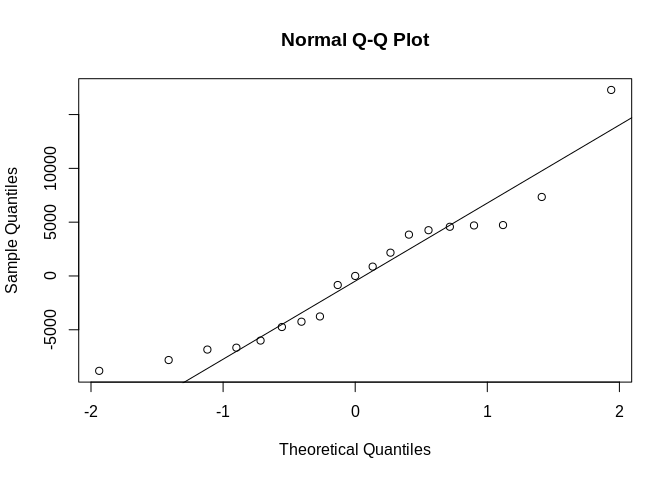
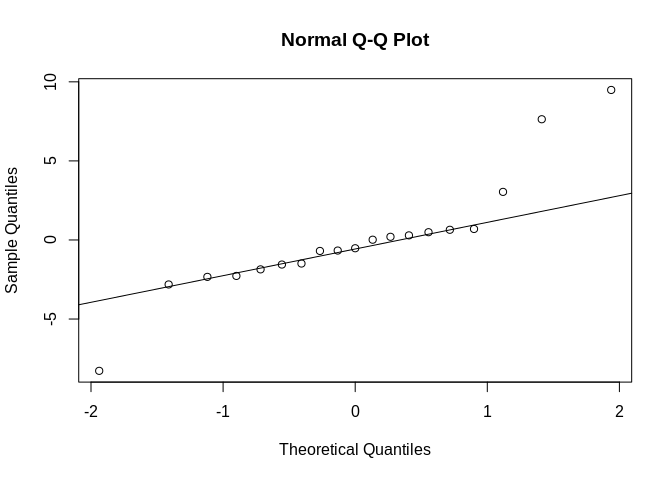
phenotype script update

diff --git a/markdown_files/Phenotype_Analysis/AE17_epfPhenotype.md b/markdown_files/Phenotype_Analysis/AE17_epfPhenotype.md
@@ -41,8 +41,9 @@ wc <-  read.csv(file="~/Github/2017OAExp_Oysters/input_files/WC/AE17_pHSalinity_
 ```
 
 ### Analyzing EPF Data (values with Complete Carbonate Chemistry)  
+This is data that we measured both the EPF pH and DIC of extract EPF Fluid in order to calculate the complete carbonate chemistry  
 
-**Days : Day 0 (pre exposure), Day 9, Day 80**
+**Days : Day 0 (pre exposure), Day 9, Day 80**  
 
 ```r
 # Select specific columns and only keep rows with complete carbonate chemistry
@@ -56,34 +57,50 @@ epf_s %>% filter(timepoint > 0) %>% group_by(pCO2_fac) %>%
   summarize(DIC=mean(DIC),TA=mean(TA),pH = mean(pH_meas),act_pCO2 = mean(pCO2_calc),Calcite = mean(Calcite)) -> sum_WC
   
 # Exploratory Plots
+
+#Color Scheme
+# Default orderL 400,900,2800
+trt_color <- c("deepskyblue3", "darkorange", "firebrick")
 #pH
+give.n <- function(x){
+   return(c(y = 7.9, label = length(x)))
+}
 ggplot(epf_s,aes(x=timepoint_fac,y=EPF_pH,group=interaction(pCO2_fac,timepoint_fac),colour=pCO2_fac)) + 
-  geom_hline(yintercept= sum_WC$pH,col=c("red","green","blue")) + 
+  geom_hline(yintercept= sum_WC$pH,col=trt_color,size=1) + 
   geom_boxplot() + 
-  labs(title="EPF pH",x="Time",y="EPF pH")
+  scale_color_manual(values=trt_color) + 
+  theme_bw() +
+  stat_summary(fun.data = give.n,
+               geom = "text",
+               position = position_dodge(width = 0.9), vjust = -0.25) +
+  labs(title="EPF pH",x="Time",y="EPF pH",colour="pCO2")
 ```
 
-![](AE17_epfPhenotype_files/figure-html/unnamed-chunk-1-1.png)<!-- -->
+![](AE17_epfPhenotype_files/figure-html/unnamed-chunk-2-1.png)<!-- -->
 
 ```r
 # Calcite
 ggplot(epf_s,aes(x=timepoint_fac,y=EPF_Ca_Start,group=interaction(pCO2_fac,timepoint_fac),colour=pCO2_fac)) + 
-  geom_hline(yintercept= sum_WC$Calcite,col=c("red","green","blue")) + 
+  geom_hline(yintercept= sum_WC$Calcite,col=trt_color,size=1) + 
   geom_boxplot() + 
-  labs(title="EPF Calcite",x="Time",y="EPF Ca")
+  scale_color_manual(values=trt_color) + 
+  theme_bw() +
+  labs(title="EPF Calcite",x="Time",y="EPF Ca",colour="pCO2")
 ```
 
-![](AE17_epfPhenotype_files/figure-html/unnamed-chunk-1-2.png)<!-- -->
+![](AE17_epfPhenotype_files/figure-html/unnamed-chunk-2-2.png)<!-- -->
 
 ```r
 # DIC
 ggplot(epf_s,aes(x=timepoint_fac,y=EPF_DIC_Start,group=interaction(pCO2_fac,timepoint_fac),colour=pCO2_fac)) + 
-  geom_hline(yintercept= sum_WC$DIC,col=c("red","green","blue")) + 
+  geom_hline(yintercept= sum_WC$DIC,col=trt_color,size=1) + 
   geom_boxplot() + 
-  labs(title="EPF DIC",x="Time",y="EPF DIC")
+  scale_color_manual(values=trt_color) + 
+  theme_bw() +
+  labs(title="EPF DIC",x="Time",y="EPF DIC",colour="pCO2")
 ```
 
-![](AE17_epfPhenotype_files/figure-html/unnamed-chunk-1-3.png)<!-- -->
+![](AE17_epfPhenotype_files/figure-html/unnamed-chunk-2-3.png)<!-- -->
 **Figure Notes**: Horizontal lines represent the mean environment value for each the the treatment levels.
   
 **Subsetting data for stats**
@@ -111,7 +128,7 @@ qqnorm(mod_1$residuals)
 qqline(mod_1$residuals)
 ```
 
-![](AE17_epfPhenotype_files/figure-html/unnamed-chunk-3-1.png)<!-- -->
+![](AE17_epfPhenotype_files/figure-html/unnamed-chunk-4-1.png)<!-- -->
 
 ```r
 # resids a little wonky trying a transformation
@@ -120,7 +137,7 @@ qqnorm(mod_2$residuals)
 qqline(mod_2$residuals)
 ```
 
-![](AE17_epfPhenotype_files/figure-html/unnamed-chunk-3-2.png)<!-- -->
+![](AE17_epfPhenotype_files/figure-html/unnamed-chunk-4-2.png)<!-- -->
 
 ```r
 #Slight improvement
@@ -182,7 +199,7 @@ qqnorm(mod_1$residuals)
 qqline(mod_1$residuals)
 ```
 
-![](AE17_epfPhenotype_files/figure-html/unnamed-chunk-4-1.png)<!-- -->
+![](AE17_epfPhenotype_files/figure-html/unnamed-chunk-5-1.png)<!-- -->
 
 ```r
 leveneTest(log(epf_s_Exp$EPF_DIC_Start)~epf_s_Exp$pCO2_fac*epf_s_Exp$timepoint_fac)
@@ -240,7 +257,7 @@ qqnorm(mod_1$residuals)
 qqline(mod_1$residuals)
 ```
 
-![](AE17_epfPhenotype_files/figure-html/unnamed-chunk-5-1.png)<!-- -->
+![](AE17_epfPhenotype_files/figure-html/unnamed-chunk-6-1.png)<!-- -->
 
 ```r
 leveneTest(log(epf_s_Exp$EPF_pH)~epf_s_Exp$pCO2_fac*epf_s_Exp$timepoint_fac)
@@ -291,42 +308,33 @@ summary(aov_1)
 # :( close but not significant (might be limited power here)
 ```
 
-### Analyzing EPF pH total data (all exposure time points and 900 treatment)
-
-**Filtering out NAs (one entry) and including only timepoints from the exposure (not acclimation)**
-
-```r
-epf_exp <- epf_cal[!is.na(epf_cal$EPF_pH),]
-epf_exp <- epf_exp[as.numeric(epf_exp$timepoint) > 0,]
-#epf_exp <- epf_exp[!epf_exp$pCO2_fac == 900,]
-
-# Exploratory plot
-ggplot(epf_exp,aes(y=EPF_pH,x=timepoint_fac,colour=pCO2_fac)) + geom_boxplot()
-```
-
-![](AE17_epfPhenotype_files/figure-html/unnamed-chunk-6-1.png)<!-- -->
-
-#### **Statistcal Analysis**
-
-**Overview**  
-Test: 2-way ANOVA - 
-* Explainatory Factors: Treatment (pCO2_fac) and Time (timepoint_fac)
-* Tested for normality and variance assumptions - log transoformed EPF data
-
-**pH**
-
-```r
-mod_1 <- lm(EPF_pH~timepoint_fac*pCO2_fac,data=epf_exp)
-
-qqnorm(mod_1$residuals)
-qqline(mod_1$residuals)
-```
-
+### Analyzing EPF pH total data (all exposure time points and 900 treatment)  
+  
+* Filtering out NAs (one entry) and including only timepoints from the exposure (not acclimation)
 ![](AE17_epfPhenotype_files/figure-html/unnamed-chunk-7-1.png)<!-- -->
+  
+### **Statistcal Analysis**  
+  
+#### **EPF pH total data - time as factor**  
+**Overview**  
+Test: 2-way ANOVA - Fixed Factors Only   
+* Explainatory Factors: Treatment (pCO2_fac) and Time (timepoint_fac)  
+* Random Facotrs: No Random Factors  
+* Tested for normality and variance assumptions  
+
 
 ```r
-aov_1 <- aov(mod_1)
-summary(aov_1)
+mod_base <- lm(EPF_pH~timepoint_fac*pCO2_fac,data=epf_exp)
+
+qqnorm(mod_base$residuals)
+qqline(mod_base$residuals)
+```
+
+![](AE17_epfPhenotype_files/figure-html/unnamed-chunk-8-1.png)<!-- -->
+
+```r
+aov_base <- aov(mod_base)
+summary(aov_base)
 ```
 
 ```
@@ -340,31 +348,32 @@ summary(aov_1)
 ```
 
 ```r
-tukey_1 <- TukeyHSD(aov_1)
-plot(tukey_1)
+tukey_base <- TukeyHSD(aov_base)
+plot(tukey_base)
 ```
 
-![](AE17_epfPhenotype_files/figure-html/unnamed-chunk-7-2.png)<!-- -->![](AE17_epfPhenotype_files/figure-html/unnamed-chunk-7-3.png)<!-- -->![](AE17_epfPhenotype_files/figure-html/unnamed-chunk-7-4.png)<!-- -->
+![](AE17_epfPhenotype_files/figure-html/unnamed-chunk-8-2.png)<!-- -->![](AE17_epfPhenotype_files/figure-html/unnamed-chunk-8-3.png)<!-- -->![](AE17_epfPhenotype_files/figure-html/unnamed-chunk-8-4.png)<!-- -->
   
+#### **EPF pH total data - treatment as factor and time as continuous variable**  
 **Overview**  
-Test: 2-way ANCOVA - 
-* Explainatory Factors: Treatment (pCO2_fac) 
-* Continuous covariate: Time (timepoint)
+Test: 2-way ANCOVA 
+* Explainatory Factors: Treatment (pCO2_fac)   
+* Continuous covariate: Time (timepoint)  
+* Random Facotrs: No Random Factors  
 * Tested for normality and variance assumptions  
-
-### EPF pH total data - treatment as factor and time as continuous variable
+  
 
 ```r
-mod_1 <- lm(EPF_pH~timepoint*pCO2_fac,data=epf_exp)
+mod_baseA <- lm(EPF_pH~timepoint*pCO2_fac,data=epf_exp)
 
-qqnorm(mod_1$residuals)
-qqline(mod_1$residuals)
+qqnorm(mod_baseA$residuals)
+qqline(mod_baseA$residuals)
 ```
 
-![](AE17_epfPhenotype_files/figure-html/unnamed-chunk-8-1.png)<!-- -->
+![](AE17_epfPhenotype_files/figure-html/unnamed-chunk-9-1.png)<!-- -->
 
 ```r
-summary(mod_1)
+summary(mod_baseA)
 ```
 
 ```
@@ -393,8 +402,8 @@ summary(mod_1)
 ```
 
 ```r
-aov_1 <- aov(mod_1)
-summary(aov_1)
+aov_baseA <- aov(mod_baseA)
+summary(aov_baseA)
 ```
 
 ```
@@ -408,7 +417,7 @@ summary(aov_1)
 ```
 
 ```r
-tukey_1 <- TukeyHSD(aov_1,which="pCO2_fac")
+tukey_baseA <- TukeyHSD(aov_baseA,which="pCO2_fac")
 ```
 
 ```
@@ -422,11 +431,101 @@ tukey_1 <- TukeyHSD(aov_1,which="pCO2_fac")
 ```
 
 ```r
-plot(tukey_1)
+plot(tukey_baseA)
 ```
 
-![](AE17_epfPhenotype_files/figure-html/unnamed-chunk-8-2.png)<!-- -->
+![](AE17_epfPhenotype_files/figure-html/unnamed-chunk-9-2.png)<!-- -->
+  
+#### **EPF pH total data - treatment as factor and time as continuous variable  + random effects**
+**Overview**  
+Test: 2-way ANCOVA with Random Factors  
+* Explainatory Factors: Treatment (pCO2_fac)  
+* Continuous covariate: Time (timepoint)  
+* Random Facotrs: shelf  
+* Method: lmer  
+* Tested for normality and variance assumptions  
+  
 
+```r
+mod_1_random <- lmer(EPF_pH~timepoint*pCO2_fac + (1|shelf),data=epf_exp)
+#mod_random <- lmer(EPF_pH ~ (1|shelf),data=epf_exp)
+summary(mod_1_random)
+```
+
+```
+## Linear mixed model fit by REML ['lmerMod']
+## Formula: EPF_pH ~ timepoint * pCO2_fac + (1 | shelf)
+##    Data: epf_exp
+## 
+## REML criterion at convergence: 80
+## 
+## Scaled residuals: 
+##      Min       1Q   Median       3Q      Max 
+## -2.73201 -0.60656  0.08005  0.66506  2.39839 
+## 
+## Random effects:
+##  Groups   Name        Variance Std.Dev.
+##  shelf    (Intercept) 0.005001 0.07072 
+##  Residual             0.079672 0.28226 
+## Number of obs: 119, groups:  shelf, 6
+## 
+## Fixed effects:
+##                          Estimate Std. Error t value
+## (Intercept)             7.4651445  0.0812428  91.887
+## timepoint              -0.0008403  0.0013761  -0.611
+## pCO2_fac900             0.0387270  0.1151153   0.336
+## pCO2_fac2800           -0.1415630  0.1149543  -1.231
+## timepoint:pCO2_fac900   0.0001591  0.0020415   0.078
+## timepoint:pCO2_fac2800 -0.0015912  0.0019723  -0.807
+## 
+## Correlation of Fixed Effects:
+##             (Intr) timpnt pCO2_9 pCO2_2 t:CO2_9
+## timepoint   -0.572                             
+## pCO2_fac900 -0.706  0.403                      
+## pCO2_fc2800 -0.707  0.404  0.499               
+## tmp:CO2_900  0.385 -0.674 -0.562 -0.272        
+## tm:CO2_2800  0.399 -0.698 -0.281 -0.569  0.470
+```
+
+```r
+# Tests significant of random effect in model
+lmerTest::ranova(mod_1_random)
+```
+
+```
+## ANOVA-like table for random-effects: Single term deletions
+## 
+## Model:
+## EPF_pH ~ timepoint + pCO2_fac + (1 | shelf) + timepoint:pCO2_fac
+##             npar  logLik    AIC  LRT Df Pr(>Chisq)
+## <none>         8 -39.989 95.978                   
+## (1 | shelf)    7 -40.604 95.208 1.23  1     0.2674
+```
+
+```r
+# Random effect not a significant improvement
+
+# Model Comparisons
+anova(mod_1_random,mod_baseA)
+```
+
+```
+## refitting model(s) with ML (instead of REML)
+```
+
+```
+## Data: epf_exp
+## Models:
+## mod_baseA: EPF_pH ~ timepoint * pCO2_fac
+## mod_1_random: EPF_pH ~ timepoint * pCO2_fac + (1 | shelf)
+##              Df    AIC    BIC  logLik deviance  Chisq Chi Df Pr(>Chisq)
+## mod_baseA     7 48.343 67.796 -17.171   34.343                         
+## mod_1_random  8 50.292 72.525 -17.146   34.292 0.0511      1     0.8212
+```
+
+```r
+# RE not a significant improvement
+```
 
 
 
